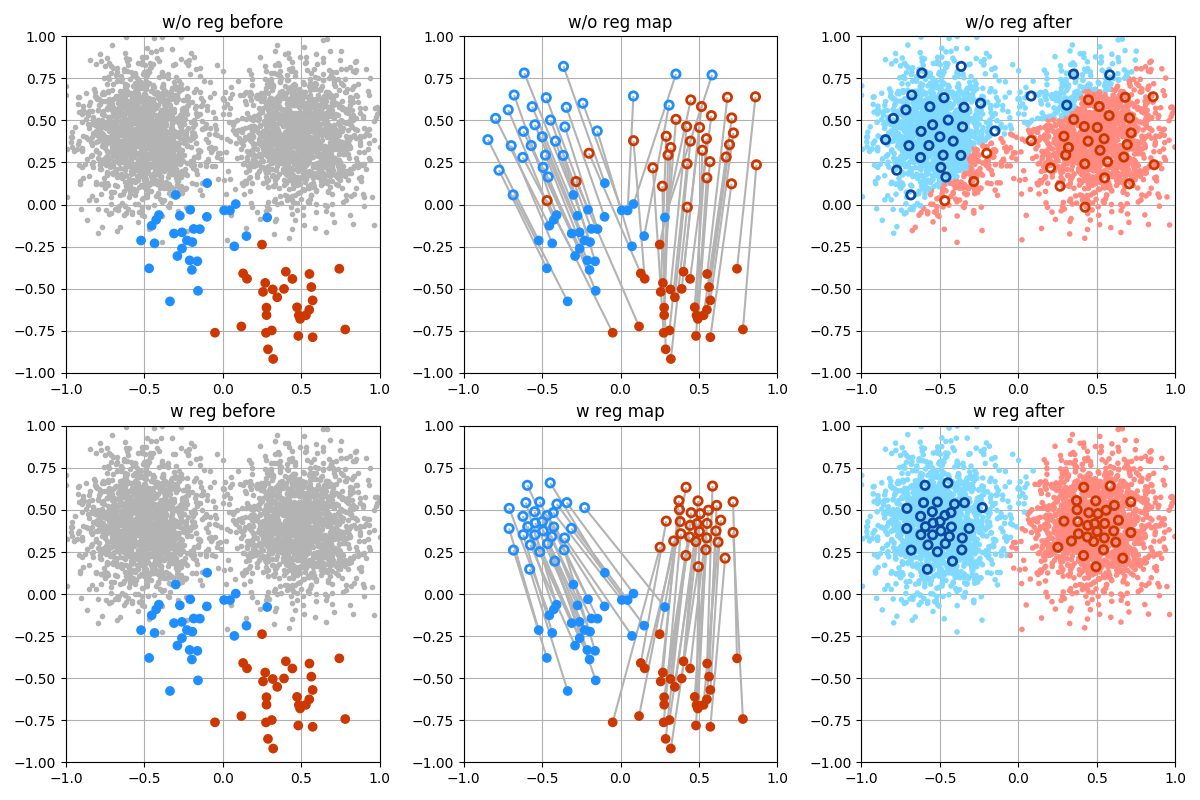
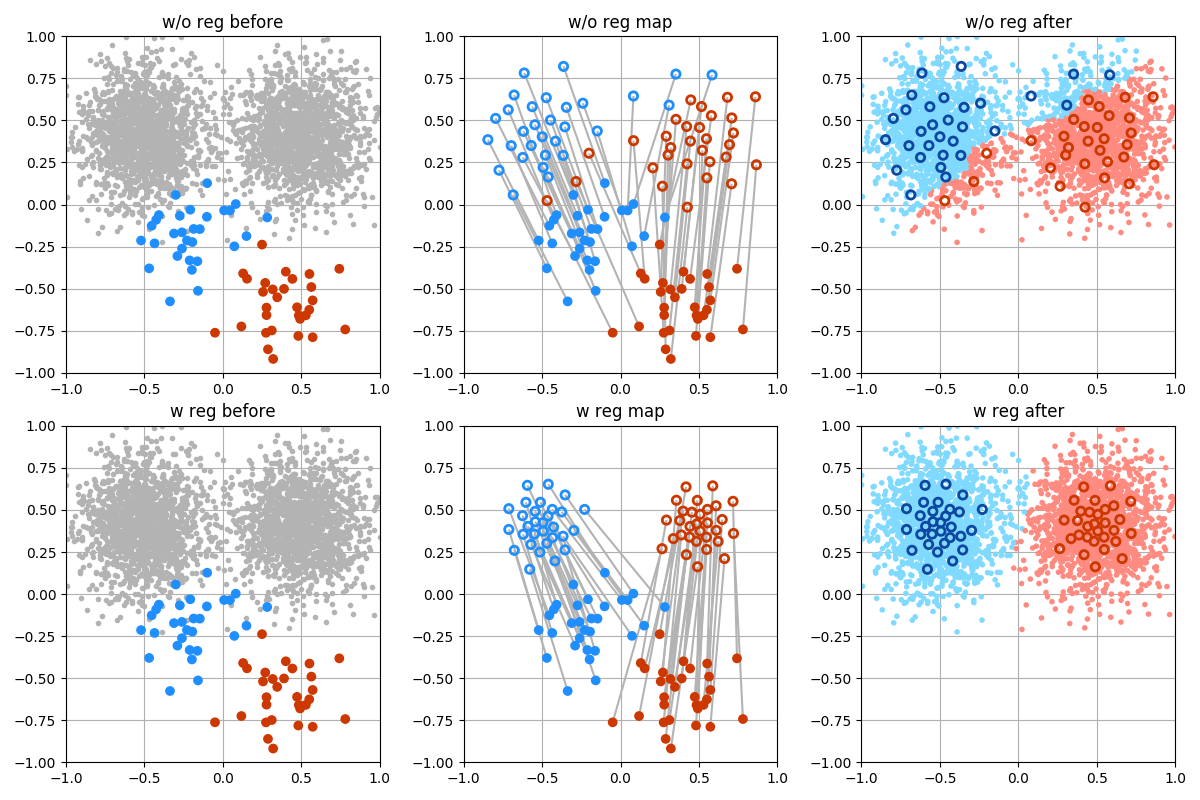
adding curvature

Changed region(s): [[0.4008, 0.5938, 0.6167, 0.7812], [0.8633, 0.5938, 0.9558, 0.7188], [0.74, 0.5938, 0.8325, 0.6875]]

diff --git a/vot.py b/vot.py
@@ -207,17 +207,17 @@ class Vot:
             return np.sum(np.sum((p - p0)**2.0)) + alpha*reg_term
 
         max_change = 0.0
-        tmp = np.zeros((self.p_coor.shape))
+        p0 = np.zeros((self.p_coor.shape))
         # new controid pos
         # TODO Replace the for loop with matrix/vector operations, if possible
         for j in range(self.np):
-            tmp[j,:] = np.average(self.e_coor[self.e_idx == j,:], weights=self.e_mass[self.e_idx == j], axis=0)
-            max_change = max(np.amax(self.p_coor[j,:] - tmp[j,:]),max_change)
+            p0[j,:] = np.average(self.e_coor[self.e_idx == j,:], weights=self.e_mass[self.e_idx == j], axis=0)
+            max_change = max(np.amax(self.p_coor[j,:] - p0[j,:]),max_change)
         print("iter " + str(iter_p) + ": " + str(max_change))
         # regularize
-        res = minimize(f, self.p_coor, method='BFGS', tol=self.thres, args=(tmp,self.p_label,alpha))
+        res = minimize(f, self.p_coor, method='BFGS', tol=self.thres, args=(p0,self.p_label,alpha))
         self.p_coor = res.x
-        self.p_coor = self.p_coor.reshape(tmp.shape)
+        self.p_coor = self.p_coor.reshape(p0.shape)
         # return max change
         return True if max_change < self.thres else False
 
@@ -298,40 +298,8 @@ class Vot:
             pfix = pfix.reshape((-1,3))
             p = p.reshape((-1, 3))
             p0 = p0.reshape((-1, 3))
-            # # gamma1
-            # cost_length += length(pfix[0,:], p[1,:], p[2,:])
-            # cost_curvature += curvature(pfix[0,:], p[1,:], p[2,:])
-            # for i in range(1,8,1):
-            #     cost_length += length(p[i,:], p[i+1,:], p[i+2,:])
-            #     cost_curvature += curvature(p[i,:], p[i+1,:], p[i+2,:])
 
-            # # gamma2
-            # cost_length += length(pfix[1,:], p[11,:], p[12,:])
-            # cost_curvature += curvature(pfix[1,:], p[11,:], p[12,:])
-            # for i in range(11,16,1):
-            #     cost_length += length(p[i,:], p[i+1,:], p[i+2,:])
-            #     cost_curvature += curvature(p[i,:], p[i+1,:], p[i+2,:])
-            # cost_length += length(p[17, :], p[18, :], p[9,:])
-            # cost_curvature += curvature(p[17,:], p[18,:], p[9,:])
-            #
-            # # gamma3
-            # cost_length += length(pfix[2,:], p[20,:], p[21,:])
-            # cost_curvature += curvature(pfix[2, :], p[20, :], p[21, :])
-            # for i in range(20,25,1):
-            #     cost_length += length(p[i,:], p[i+1,:], p[i+2,:])
-            #     cost_curvature += curvature(p[i,:], p[i+1,:], p[i+2,:])
-            # cost_length += length(p[26,:], p[27,:], p[9,:])
-            # cost_curvature += curvature(p[26,:], p[27,:], p[9,:])
-            #
-            # cost_curvature += curvature(p[18,:], p[9,:], p[27,:])
-            #
-            # cost_target = np.sum(np.sum((p0 - p)**2.0))
-
-            # print("cost : p0: " + str(cost_target) + ", length: " + str(cost_length) + ", curvature: " + str(cost_curvature))
-
-            # return cost_target + alpha1*cost_length + alpha2*cost_curvature
-
-            # return 0.1*np.sum(np.sum((p0 - p)**2.0)) + \
+            # return 0.05*np.sum(np.sum((p0 - p)**2.0)) + \
             #        length(pfix[0,:], p[1,:], p[2,:]) + \
             #        length(p[1, :], p[2, :], p[3, :]) + \
             #        length(p[2, :], p[3, :], p[4, :]) + \
@@ -365,29 +333,19 @@ class Vot:
             #        curvature(p[16, :], p[17, :], p[18, :]) + \
             #        curvature(p[17, :], p[18, :], pfix[3, :]) + \
             #        length(pfix[2, :], p[20, :], p[21, :]) + \
-            #        length(p[20, :], p[22, :], p[23, :]) + \
-            #        length(p[21, :], p[22, :], p[23, :]) + \
-            #        length(p[22, :], p[23, :], p[24, :]) + \
-            #        length(p[23, :], p[24, :], p[25, :]) + \
-            #        length(p[24, :], p[25, :], p[26, :]) + \
-            #        length(p[25, :], p[26, :], p[27, :]) + \
-            #        length(p[26, :], p[27, :], pfix[3, :]) + \
+            #        length(p[20, :], p[21, :], pfix[3, :]) + \
             #        curvature(pfix[2, :], p[20, :], p[21, :]) + \
-            #        curvature(p[20, :], p[22, :], p[23, :]) + \
-            #        curvature(p[21, :], p[22, :], p[23, :]) + \
-            #        curvature(p[22, :], p[23, :], p[24, :]) + \
-            #        curvature(p[23, :], p[24, :], p[25, :]) + \
-            #        curvature(p[24, :], p[25, :], p[26, :]) + \
-            #        curvature(p[25, :], p[26, :], p[27, :]) + \
-            #        curvature(p[26, :], p[27, :], pfix[3, :]) + \
-            #        curvature(p[18, :], pfix[3, :], p[27, :])
-            return 0.05*np.sum(np.sum((p0 - p)**2.0)) + \
-                   length(pfix[0,:], p[1,:], p[2,:]) + \
-                   length(p[2, :], p[3, :], p[4, :]) + \
-                   length(p[4, :], p[5, :], p[6, :]) + \
-                   length(p[6, :], p[7, :], p[8, :]) + \
-                   length(p[7, :], p[8, :], pfix[3, :]) + \
-                   curvature(pfix[0, :], p[1, :], p[2, :]) + \
+            #        curvature(p[20, :], p[21, :], pfix[3, :]) + \
+            #        curvature(p[18, :], pfix[3, :], p[21, :])
+
+
+            # tmp = curvature(p[1, :], p[2, :], p[3, :])
+            # print(p[1, :], end="")
+            # print(p[2, :], end="")
+            # print(p[3, :], end="")
+            # print(tmp)
+
+            cost_curvature = curvature(pfix[0, :], p[1, :], p[2, :]) + \
                    curvature(p[1, :], p[2, :], p[3, :]) + \
                    curvature(p[2, :], p[3, :], p[4, :]) + \
                    curvature(p[3, :], p[4, :], p[5, :]) + \
@@ -395,11 +353,6 @@ class Vot:
                    curvature(p[5, :], p[6, :], p[7, :]) + \
                    curvature(p[6, :], p[7, :], p[8, :]) + \
                    curvature(p[7, :], p[8, :], pfix[3, :]) + \
-                   length(pfix[1, :], p[11, :], p[12, :]) + \
-                   length(p[12, :], p[13, :], p[14, :]) + \
-                   length(p[14, :], p[15, :], p[16, :]) + \
-                   length(p[16, :], p[17, :], p[18, :]) + \
-                   length(p[17, :], p[18, :], pfix[3, :]) + \
                    curvature(pfix[1, :], p[11, :], p[12, :]) + \
                    curvature(p[11, :], p[12, :], p[13, :]) + \
                    curvature(p[12, :], p[13, :], p[14, :]) + \
@@ -408,11 +361,40 @@ class Vot:
                    curvature(p[15, :], p[16, :], p[17, :]) + \
                    curvature(p[16, :], p[17, :], p[18, :]) + \
                    curvature(p[17, :], p[18, :], pfix[3, :]) + \
-                   length(pfix[2, :], p[20, :], p[21, :]) + \
-                   length(p[20, :], p[21, :], pfix[3, :]) + \
                    curvature(pfix[2, :], p[20, :], p[21, :]) + \
                    curvature(p[20, :], p[21, :], pfix[3, :]) + \
                    curvature(p[18, :], pfix[3, :], p[21, :])
+            cost = np.sum(np.sum((p0 - p)**2.0))
+            print("data term: " + str(cost_curvature))
+            print("curvature: " + str(cost))
+            return 0.01*np.sum(np.sum((p0 - p)**2.0)) + \
+                   curvature(pfix[0, :], p[1, :], p[2, :]) + \
+                   curvature(p[1, :], p[2, :], p[3, :]) + \
+                   curvature(p[2, :], p[3, :], p[4, :]) + \
+                   curvature(p[3, :], p[4, :], p[5, :]) + \
+                   curvature(p[4, :], p[5, :], p[6, :]) + \
+                   curvature(p[5, :], p[6, :], p[7, :]) + \
+                   curvature(p[6, :], p[7, :], p[8, :]) + \
+                   curvature(p[7, :], p[8, :], pfix[3, :]) + \
+                   curvature(pfix[1, :], p[11, :], p[12, :]) + \
+                   curvature(p[11, :], p[12, :], p[13, :]) + \
+                   curvature(p[12, :], p[13, :], p[14, :]) + \
+                   curvature(p[13, :], p[14, :], p[15, :]) + \
+                   curvature(p[14, :], p[15, :], p[16, :]) + \
+                   curvature(p[15, :], p[16, :], p[17, :]) + \
+                   curvature(p[16, :], p[17, :], p[18, :]) + \
+                   curvature(p[17, :], p[18, :], pfix[3, :]) + \
+                   curvature(pfix[2, :], p[20, :], p[21, :]) + \
+                   curvature(p[20, :], p[21, :], pfix[3, :]) + \
+                   curvature(p[18, :], pfix[3, :], p[21, :])
+
+        # find nearest p for each e and add mass to p
+        idx_tmp = np.argmin(self.cost_base, axis=0)
+        dirac_tmp = np.zeros(self.np)
+        for j in range(self.np):
+            dirac_tmp[j] = np.sum(self.e_mass[idx_tmp == j])
+
+        self.p_dirac = 0.9 * self.p_dirac + 0.1 * dirac_tmp
 
         pfix = np.concatenate((self.p_coor[0,:],self.p_coor[10,:],self.p_coor[19,:],self.p_coor[9,:]), axis=0)
 

diff --git a/demo_curvature.py b/demo_curvature.py
@@ -24,7 +24,7 @@ from mpl_toolkits.mplot3d import Axes3D
 # ----- set up WM ------ #
 ot = Vot()
 ot.import_data_file(pfilename='data/vent/skel.csv', efilename='data/vent/m5.csv', label=False)
-ot.setup(max_iter_p=5, max_iter_h=1500)
+ot.setup(max_iter_p=10, max_iter_h=1500)
 
 fig = plt.figure()
 # ------- run WM -------- #

diff --git a/demo_potential.py b/demo_potential.py
@@ -64,6 +64,8 @@ plt.scatter(p_coor_after[:,0], p_coor_after[:,1], marker='o', facecolors='none',
 # --------- w/ regularization ---------- #
 # -------------------------------------- #
 
+ot = Vot()
+ot.import_data_file('data/p.csv','data/e.csv')
 ot.setup(max_iter_p=5, max_iter_h=1500)
 
 # ----- plot before ----- #
